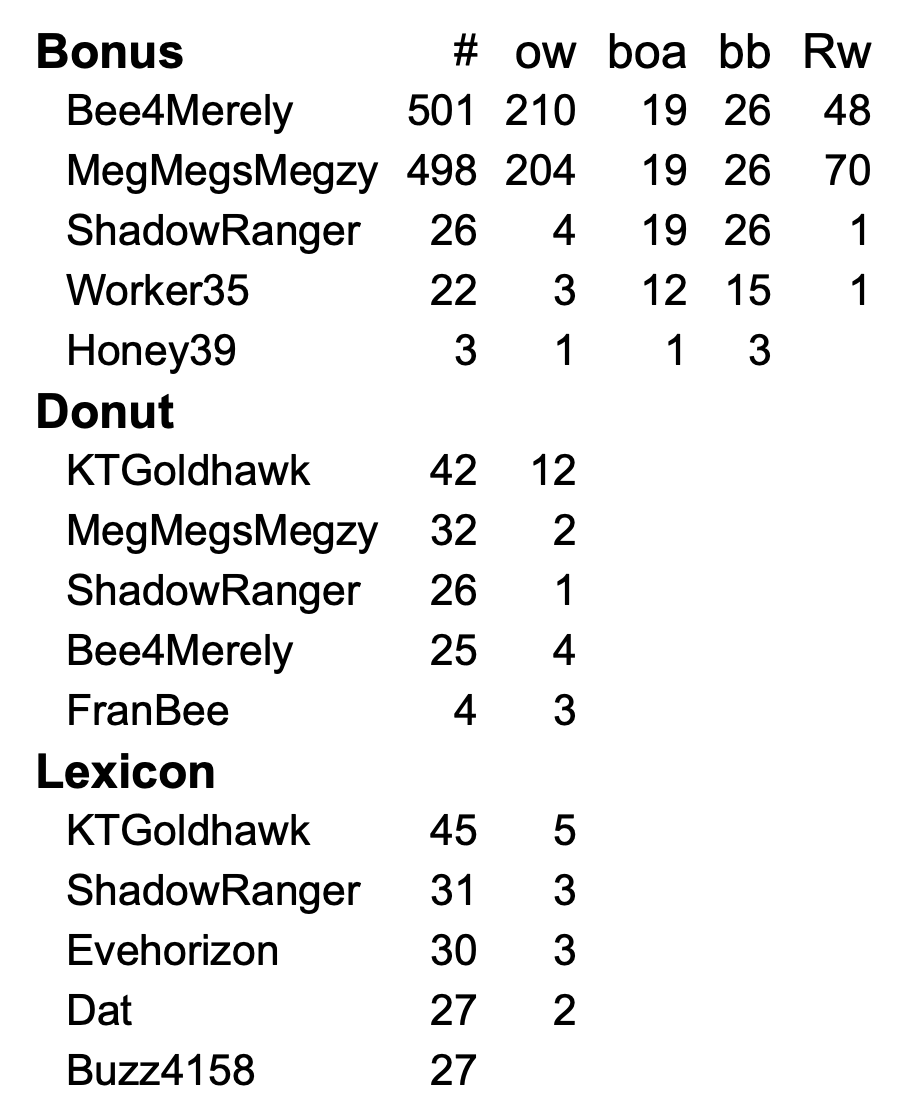
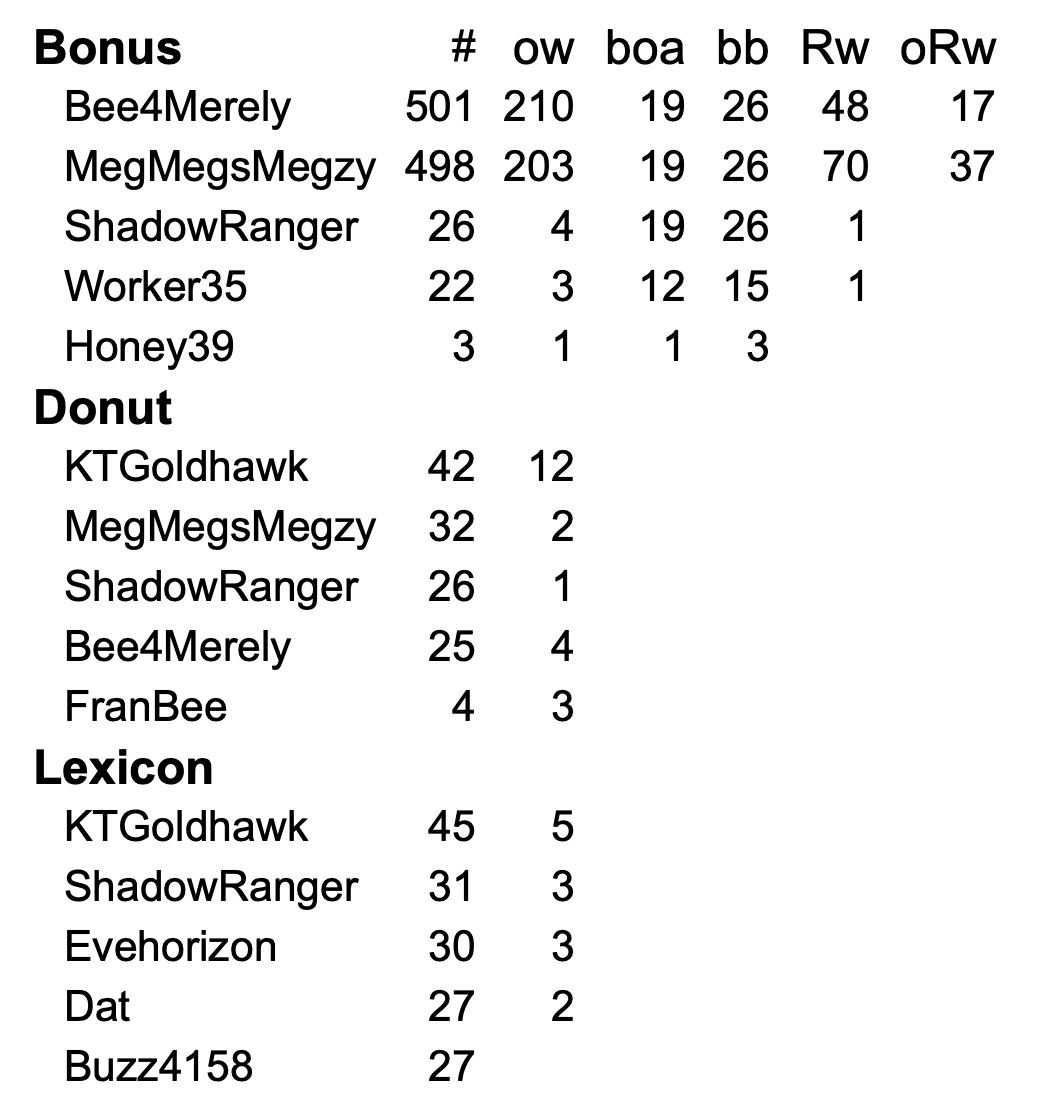
oXw column

diff --git a/nytbee/help.html b/nytbee/help.html
@@ -1362,7 +1362,7 @@ of the 5 people who found the most
 Extra words (Bonus, Donut, and Lexicon) for the current NYT puzzle.
 For example:
 <br>
-<img src=pics/cw.png width=450 style="margin: 2mm">
+<img src=pics/cw.png width=550 style="margin: 2mm">
 <br>
 <span class=cmd>CW 10</span> will show the top 10.
 Note that this command only shows the counts of words that were found <b>on</b>
@@ -1371,7 +1371,7 @@ entered throughout the day of the puzzle.
 <span class=cmd>CW</span> introduces
 a fun competitive drive to try to find more and more words.
 <p>
-Note that <span class=cmd>CW</span> also shows OW, BOA, BB, and Xw scores.
+Note that <span class=cmd>CW</span> also shows OW, BOA, BB, Xw, and oXw scores.
 On the day of the puzzle above (8/16/2025) the letter R began most of the puzzle words.
 </td></tr>
 </table>
@@ -2427,8 +2427,8 @@ It is now added to daily at 3:00 a.m. EST by extracting the words
 from the New York Times site.  There are daily puzzles going all the way
 back to May 9, 2018.   There are now
 <!-- Do NOT mess with the next two lines - see cgi-bin/nytbee_list.pl! -->
-2660 puzzles with
-a total of 10776 different words!
+2663 puzzles with
+a total of 10779 different words!
 <p>
 Tallies are made of the many puzzles and words.
 See this table of the puzzles:

diff --git a/nytbee/cmds.html b/nytbee/cmds.html
@@ -68,12 +68,13 @@ a {
 <tr><td>DGR</td><td>Define words beginning with GR.</td></tr>
 <tr><td>D-MIN</td><td>Define words beginning with MIN.</td></tr>
 <tr><td>D5</td><td>Define a random word that is at least 5 letters long</td></tr>
+<tr><td colspan=2>The above commands will skip words that have
+been found.<br>The next one will define any word - in the puzzle or not.</td></tr>
+<tr><td>D &lt;word&gt; ...</td><td>Define the words</td></tr>
+<tr><td>&nbsp;</td><td></td></tr>
+<tr><td>Q (or ?)</td><td>Define the last word that was found</td></tr>
 <tr><td>OC</td><td>Toggle showing only clues or both clues and definitions.</td></tr>
 <tr><td>ND</td><td>Toggle showing the Define link or not.</td></tr>
-<tr><td colspan=2>The above commands will skip words that have
-been found.  The one below will define any word - in the puzzle or not.</td></tr>
-<tr><td>D &lt;word&gt; ...</td><td>Define the words</td></tr>
-<tr><td>Q (or ?)</td><td>Define the last word that was found</td></tr>
 <tr><td colspan=2 class=heading><br>Revealing Letters</td></tr>
 <tr><td>V1P</td><td>Show the first letter of the pangrams</td></tr>
 <tr><td>V3A5</td><td>Show the first 3 letters of A5 words</td></tr>
